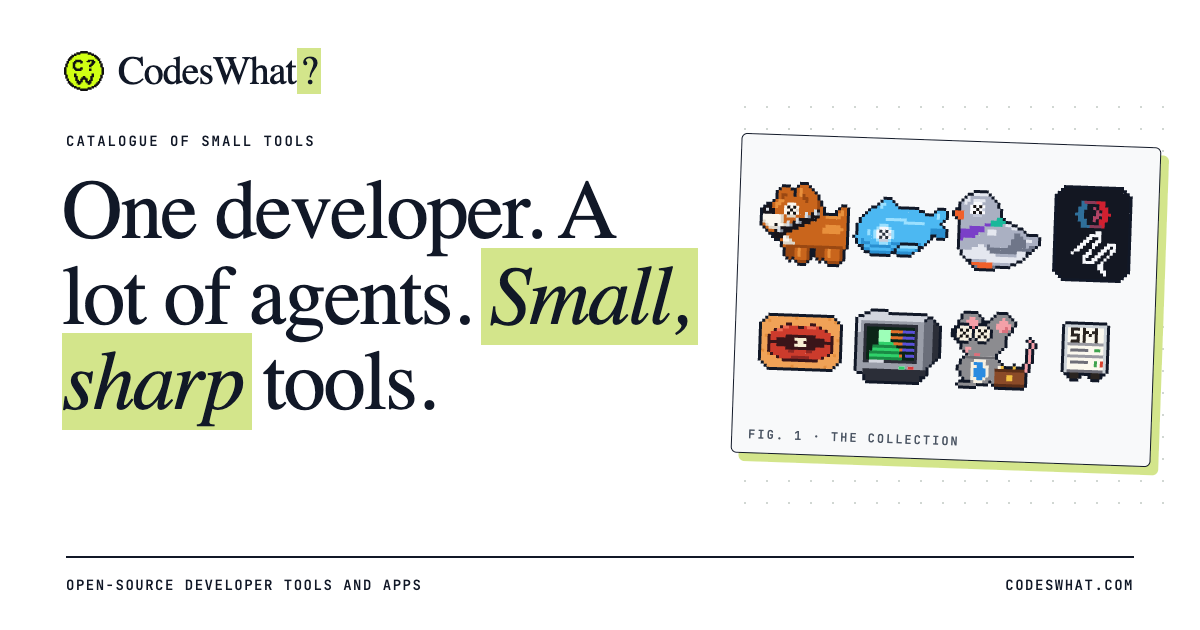
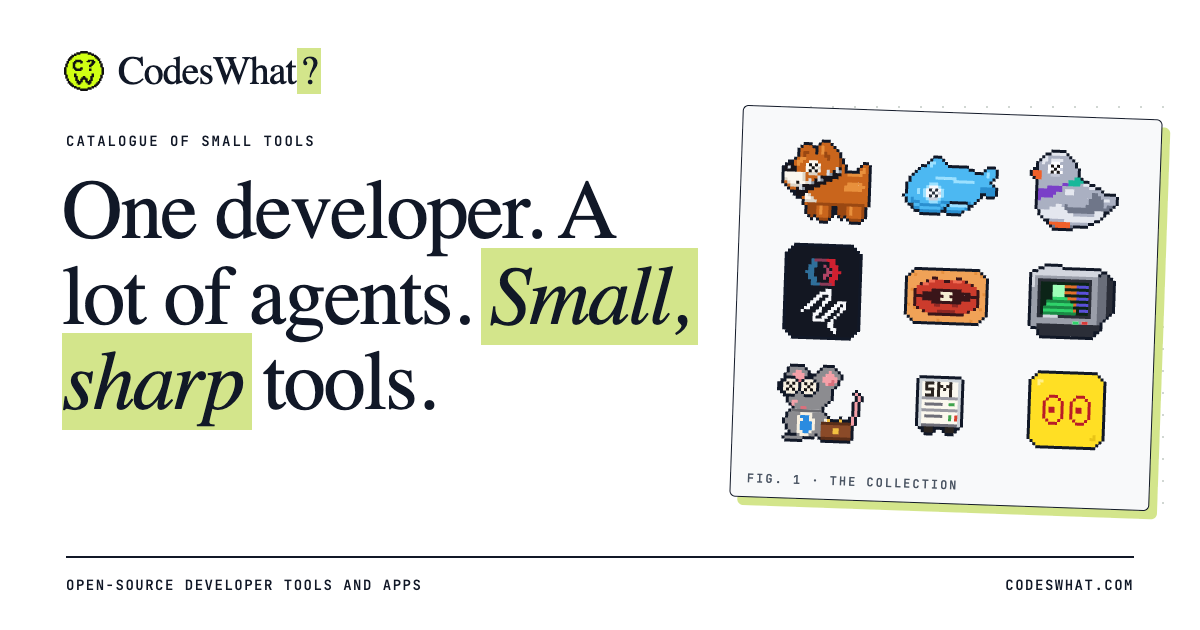
chore(release): promote Dilated as specimen 09 (#130) (#131)
* fix(analytics): forward $raw_user_agent and $host for cookieless ingestion (#52)

PostHog's cookieless server-hash step reads $raw_user_agent and $host
straight off event.properties and drops the event with a
cookieless_missing_user_agent/cookieless_missing_host ingestion warning
if either is absent. createCommonProperties rebuilt an allowlisted
properties object that dropped both, so every event was silently
discarded at ingestion. Forward them through; never add $ip, which
PostHog's capture service fills in server-side from the connection.

* chore(config): remove the stale Cursor rules (#54)

* fix(analytics): promote cookieless ingestion fix to production (#53)

PostHog's cookieless server-hash step reads $raw_user_agent and $host
straight off event.properties and drops the event with a
cookieless_missing_user_agent/cookieless_missing_host ingestion warning
if either is absent. createCommonProperties rebuilt an allowlisted
properties object that dropped both, so every event was silently
discarded at ingestion. Forward them through; never add $ip, which
PostHog's capture service fills in server-side from the connection.

* chore(config): drop the stale Cursor rules folder

* docs(config): drop dangling .cursorrules references

---------

* docs(readme): describe what this repo is and how it deploys (#55)

* chore(gitignore): ignore the root .vercel link and history-backup bundles

* feat(analytics): capture $pageleave and send $pathname (#60)
[…]

Changed region(s): [[0.6167, 0.181, 0.9867, 0.8444], [0.6167, 0.1508, 0.6475, 0.181]]

diff --git a/frontend/components/catalogue/sprites.ts b/frontend/components/catalogue/sprites.ts
@@ -307,6 +307,37 @@ export const SPRITES: Record<string, SpriteArt> = {
       "....kkk....kkk......",
     ],
   },
+  dilated: {
+    palette: { y: "#ffdf24", h: "#fff08a", s: "#e8c415", r: "#b91c27" },
+    rows: [
+      "...kkkkkkkkkkkkkkkkkkkk...",
+      "..kyyyyyyyyyyyyyyyyyyyyk..",
+      ".kyyyyyyyyyyyyyyyyyyyyyyk.",
+      "kyyhhyyyyyyyyyyyyyyyyyyyyk",
+      "kyyhyyyyyyyyyyyyyyyyyyyyyk",
+      "kyyyyyyyyyyyyyyyyyyyyyyyyk",
+      "kyyyyyyyyyyyyyyyyyyyyyyyyk",
+      "kyyyyyyyyyyyyyyyyyyyyyyyyk",
+      "kyyyyyyrrryyyyyyrrryyyyyyk",
+      "kyyyyyryyyryyyyryyyryyyyyk",
+      "kyyyyryyyyyryyryyyyyryyyyk",
+      "kyyyyryyyyyryyryyyyyryyyyk",
+      "kyyyyryrryyryyryrryyryyyyk",
+      "kyyyyryrryyryyryrryyryyyyk",
+      "kyyyyryyyyyryyryyyyyryyyyk",
+      "kyyyyryyyyyryyryyyyyryyyyk",
+      "kyyyyyryyyryyyyryyyryyyyyk",
+      "kyyyyyyrrryyyyyyrrryyyyyyk",
+      "kyyyyyyyyyyyyyyyyyyyyyyyyk",
+      "kyyyyyyyyyyyyyyyyyyyyyyyyk",
+      "kyyyyyyyyyyyyyyyyyyyyyyyyk",
+      "kyyyyyyyyyyyyyyyyyyyyysyyk",
+      "kyyyyyyyyyyyyyyyyyyyyssyyk",
+      ".kyyyyyyyyyyyyyyyyyyyyyyk.",
+      "..kyyyyyyyyyyyyyyyyyyyyk..",
+      "...kkkkkkkkkkkkkkkkkkkk...",
+    ],
+  },
   coin: {
     palette: { k: "#111111", l: "#d0ff14" },
     rows: [

diff --git a/frontend/lib/specimens.ts b/frontend/lib/specimens.ts
@@ -119,6 +119,18 @@ const FIELD: Record<string, Field> = {
     handling: "A live census of the bots that visit a website, set as a field guide. Lab project.",
     alt: "Pixel art of a small beige server tower with two eyes, three rack units and smoke rising from one corner",
   },
+  dilated: {
+    latin: "Oculus apertus",
+    habitat: "The menu bar of a Mac that isn't allowed to sleep",
+    diet: "Timers, triggers and the odd request from an agent",
+    temperament: "Won't blink first.",
+    marks: "Two red eyes on a yellow tile, pupils wide open. It's been up a while.",
+    handling:
+      "A menu bar app that keeps your Mac awake: timed holds, triggers, a CLI for agents, and an opt-in closed-lid mode. Public beta.",
+    alt: "Pixel art of a yellow tile with two wide red-outlined eyes and small square pupils",
+    docs: `${GITHUB_URL}/dilated/tree/main/docs`,
+    repo: `${GITHUB_URL}/dilated`,
+  },
 };
 
 export const SPECIMENS: Specimen[] = PROJECTS.map((p, i) => {

diff --git a/frontend/test/posthog.test.ts b/frontend/test/posthog.test.ts
@@ -99,6 +99,7 @@ test("route sanitization only returns the finite public route manifest", () => {
     "/projects/idlescreen",
     "/projects/careerrat",
     "/projects/systema-machinae",
+    "/projects/dilated",
   ]);
   assert.equal(sanitizeRoute("/?utm_source=secret#private"), "/");
   assert.equal(sanitizeRoute("/"), "/");
@@ -296,6 +297,7 @@ test("CTA events are limited to the fixed vocabulary", () => {
     "project_idlescreen",
     "project_careerrat",
     "project_systema-machinae",
+    "project_dilated",
   ]);
   assert.deepEqual(
     sanitizeEvent({
@@ -525,7 +527,7 @@ test("a CTA event shaped like the browser sends it (no path property) survives t
 
 test("project CTAs need a project_ id with the projects placement", () => {
   const accepted = ALLOWED_CTA_IDS.filter((id) => id.startsWith("project_"));
-  assert.equal(accepted.length, 8);
+  assert.equal(accepted.length, 9);
   for (const ctaId of accepted) {
     assert.ok(
       sanitizeEvent({

diff --git a/frontend/lib/specimen-examples.ts b/frontend/lib/specimen-examples.ts
@@ -46,4 +46,10 @@ export const SPECIMEN_EXAMPLES: Partial<Record<string, SpecimenExample>> = {
     sourceUrl:
       "https://github.com/CodesWhat/careerrat/blob/f2f696d52de1f7352fdd6398bdf0dc855dff26ea/README.md#L490-L494",
   },
+  dilated: {
+    excerpt:
+      "2. Open the DMG, drag Dilated to Applications and open it.\n3. Pick **Keep awake for** from the menu bar item.\n\nPrefer Homebrew? `brew install --cask codeswhat/tap/dilated` installs the same build.",
+    sourceUrl:
+      "https://github.com/CodesWhat/dilated/blob/6673e3f1af24b6cc80e46303f886075d28b1ace9/README.md#L64-L67",
+  },
 };

diff --git a/frontend/app/(site)/page.tsx b/frontend/app/(site)/page.tsx
@@ -93,7 +93,7 @@ export default function Home() {
               The specimens, <em>filed and labelled.</em>
             </h2>
             <p className={styles.sectionLede}>
-              Eight projects, each drawn from its own mascot, with a Latin name that fits and field
+              Nine projects, each drawn from its own mascot, with a Latin name that fits and field
               notes that are mostly true. Open a plate for the full write-up.
             </p>
           </header>

diff --git a/frontend/lib/site-config.ts b/frontend/lib/site-config.ts
@@ -148,4 +148,14 @@ export const PROJECTS: Project[] = [
     status: "MIT · TypeScript",
     href: "https://systemamachinae.com",
   },
+  {
+    slug: "dilated",
+    name: "Dilated",
+    category: "macos-app",
+    tagline: "Keeps your Mac awake",
+    description:
+      "Keeps your Mac awake. A native macOS menu bar app with timed holds, triggers, a CLI for agents and an opt-in closed-lid mode.",
+    status: "MIT · Swift",
+    href: "https://dilated.app",
+  },
 ];

diff --git a/frontend/components/catalogue/catalogue.module.css b/frontend/components/catalogue/catalogue.module.css
@@ -895,7 +895,7 @@
 }
 .figureGrid {
   display: grid;
-  grid-template-columns: repeat(4, minmax(0, 1fr));
+  grid-template-columns: repeat(3, minmax(0, 1fr));
   gap: 10px 8px;
   align-items: end;
   justify-items: center;

diff --git a/frontend/lib/project-slugs.ts b/frontend/lib/project-slugs.ts
@@ -12,4 +12,5 @@ export const PROJECT_SLUGS = [
   "idlescreen",
   "careerrat",
   "systema-machinae",
+  "dilated",
 ] as const;
